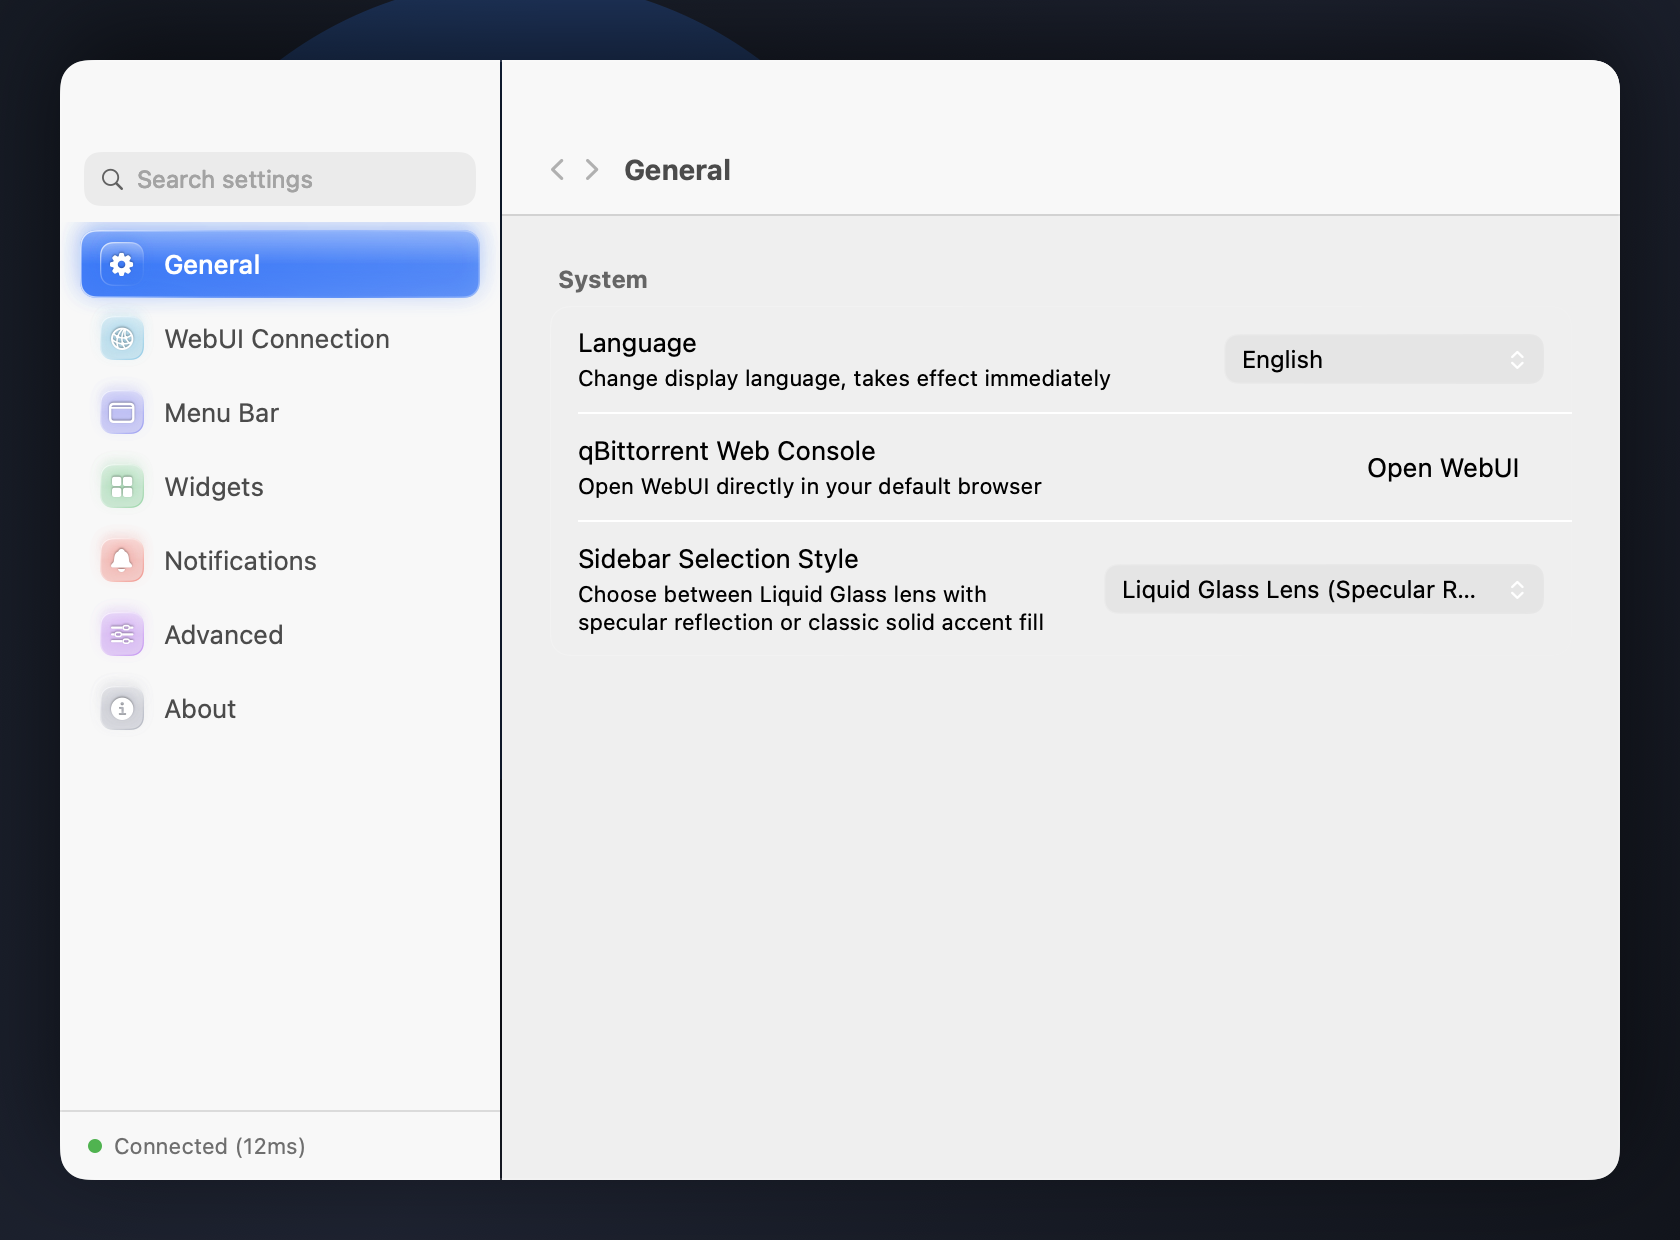
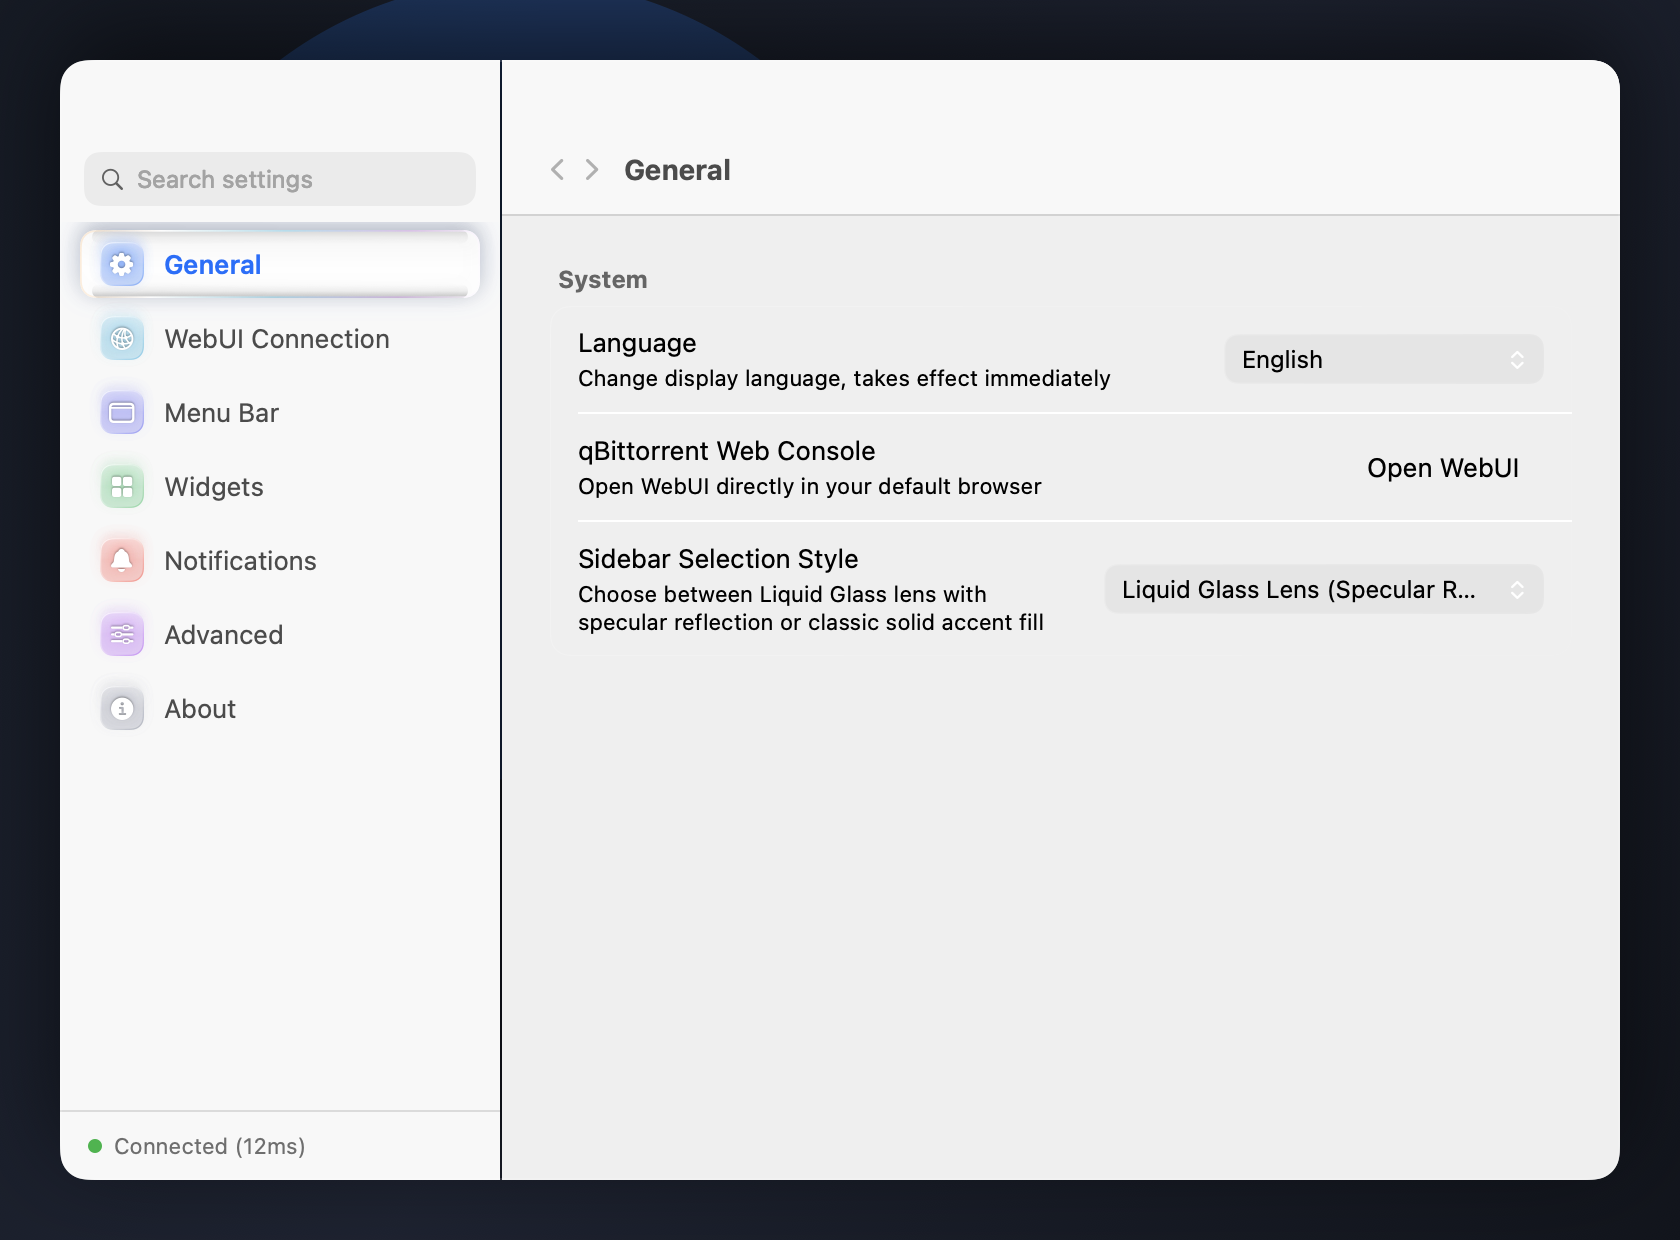
feat(settings): implement authentic clear Liquid Glass optical lens with meniscus refraction, chromatic dispersion and spring motion for sidebar

Changed region(s): [[0.031, 0.1532, 0.3095, 0.2452]]

diff --git a/Sources/QBMenubar/Views/Settings/SettingsWindowView.swift b/Sources/QBMenubar/Views/Settings/SettingsWindowView.swift
@@ -60,6 +60,7 @@ public struct SettingsWindowView: View {
     @State private var hoveredCategory: SettingsCategory? = nil
     @State private var searchText: String = ""
     @State private var testState: TestStatus = .idle
+    @Namespace private var sidebarLensNamespace
 
     private var lang: AppLanguage { viewModel.config.language }
     private var isEn: Bool { !lang.isChinese }
@@ -103,6 +104,7 @@ public struct SettingsWindowView: View {
                 ScrollView {
                     VStack(spacing: 3) {
                         ForEach(SettingsCategory.allCases) { category in
+                            let isSelected = selectedCategory == category
                             Button {
                                 withAnimation(AppMotion.selection) {
                                     selectedCategory = category
@@ -111,25 +113,39 @@ public struct SettingsWindowView: View {
                                 HStack(spacing: 10) {
                                     LiquidGlassCategoryBadge(
                                         category: category,
-                                        isSelected: selectedCategory == category
+                                        isSelected: isSelected
                                     )
 
                                     Text(category.localizedTitle(lang: lang))
-                                        .font(.system(size: 13, weight: selectedCategory == category ? .medium : .regular))
-                                        .foregroundStyle(selectedCategory == category ? Color.white : Color.primary)
+                                        .font(.system(size: 13, weight: isSelected ? .semibold : .regular))
+                                        .foregroundStyle(
+                                            isSelected
+                                                ? (viewModel.config.sidebarSelectionStyle == .liquidGlass ? Color.accentColor : Color.white)
+                                                : Color.primary
+                                        )
 
                                     Spacer()
                                 }
                                 .padding(.horizontal, 10)
                                 .padding(.vertical, 6)
                                 .contentShape(Rectangle())
-                                .background(
-                                    LiquidGlassSidebarSelection(
-                                        isSelected: selectedCategory == category,
-                                        isHovered: hoveredCategory == category,
-                                        style: viewModel.config.sidebarSelectionStyle
-                                    )
-                                )
+                                .background {
+                                    if isSelected {
+                                        LiquidGlassSidebarSelection(
+                                            isSelected: true,
+                                            isHovered: false,
+                                            style: viewModel.config.sidebarSelectionStyle
+                                        )
+                                        .matchedGeometryEffect(id: "sidebarSelectionLens", in: sidebarLensNamespace)
+                                    } else if hoveredCategory == category {
+                                        RoundedRectangle(cornerRadius: 8, style: .continuous)
+                                            .fill(Color.primary.opacity(0.06))
+                                            .overlay(
+                                                RoundedRectangle(cornerRadius: 8, style: .continuous)
+                                                    .strokeBorder(Color.white.opacity(0.08), lineWidth: 0.5)
+                                            )
+                                    }
+                                }
                             }
                             .buttonStyle(.plain)
                             .onHover { isHovered in
@@ -1129,36 +1145,62 @@ public struct LiquidGlassSidebarSelection: View {
             if isSelected {
                 switch style {
                 case .liquidGlass:
+                    // Authentic Clear Optical Liquid Glass Lens with Meniscus Refraction & Chromatic Dispersion
                     ZStack {
-                        // 1. Frosted Material Base (on macOS 26+, native glassEffect; fallback: ultraThinMaterial)
+                        // 1. Crystal Clear Glass Base
                         if #available(macOS 26.0, *) {
                             RoundedRectangle(cornerRadius: 8, style: .continuous)
-                                .fill(Color.accentColor.opacity(0.18))
-                                .glassEffect(.regular.tint(Color.accentColor).interactive(), in: .rect(cornerRadius: 8))
+                                .glassEffect(.clear.interactive(), in: .rect(cornerRadius: 8))
                         } else {
                             RoundedRectangle(cornerRadius: 8, style: .continuous)
                                 .fill(.ultraThinMaterial)
                         }
 
-                        // 2. Liquid Glass Tint Gradient (deep vibrant accent)
+                        // Subtle transparent glass illumination
                         RoundedRectangle(cornerRadius: 8, style: .continuous)
-                            .fill(
-                                LinearGradient(
-                                    colors: [
-                                        Color.accentColor.opacity(0.85),
-                                        Color.accentColor.opacity(0.65)
-                                    ],
-                                    startPoint: .topLeading,
-                                    endPoint: .bottomTrailing
-                                )
-                            )
+                            .fill(Color.white.opacity(0.12))
 
-                        // 3. Upper Specular Gloss Reflection (simulating glass curvature)
+                        // 2. Optical Meniscus Refraction Shadows (Curved top & bottom internal refraction lips)
+                        VStack(spacing: 0) {
+                            Capsule()
+                                .fill(
+                                    LinearGradient(
+                                        colors: [
+                                            Color.black.opacity(0.22),
+                                            Color.black.opacity(0.06),
+                                            Color.clear
+                                        ],
+                                        startPoint: .top,
+                                        endPoint: .bottom
+                                    )
+                                )
+                                .frame(height: 7)
+                                .padding(.horizontal, 6)
+
+                            Spacer()
+
+                            Capsule()
+                                .fill(
+                                    LinearGradient(
+                                        colors: [
+                                            Color.clear,
+                                            Color.black.opacity(0.06),
+                                            Color.black.opacity(0.24)
+                                        ],
+                                        startPoint: .top,
+                                        endPoint: .bottom
+                                    )
+                                )
+                                .frame(height: 7)
+                                .padding(.horizontal, 6)
+                        }
+
+                        // 3. Upper Specular Meniscus Curvature Highlight
                         RoundedRectangle(cornerRadius: 8, style: .continuous)
                             .fill(
                                 LinearGradient(
                                     colors: [
-                                        Color.white.opacity(0.38),
+                                        Color.white.opacity(0.40),
                                         Color.white.opacity(0.0)
                                     ],
                                     startPoint: .top,
@@ -1166,23 +1208,25 @@ public struct LiquidGlassSidebarSelection: View {
                                 )
                             )
 
-                        // 4. Specular Highlight Rim Border
+                        // 4. Prismatic Chromatic Dispersion & Specular Rim Border
                         RoundedRectangle(cornerRadius: 8, style: .continuous)
                             .strokeBorder(
                                 LinearGradient(
-                                    colors: [
-                                        Color.white.opacity(0.75),
-                                        Color.white.opacity(0.22),
-                                        Color.white.opacity(0.06),
-                                        Color.white.opacity(0.32)
+                                    stops: [
+                                        .init(color: Color(red: 1.0, green: 0.85, blue: 0.70).opacity(0.45), location: 0.0),
+                                        .init(color: Color.white.opacity(0.95), location: 0.20),
+                                        .init(color: Color(red: 0.55, green: 0.90, blue: 1.0).opacity(0.50), location: 0.50),
+                                        .init(color: Color(red: 0.90, green: 0.65, blue: 1.0).opacity(0.40), location: 0.80),
+                                        .init(color: Color.white.opacity(0.70), location: 1.0)
                                     ],
                                     startPoint: .topLeading,
                                     endPoint: .bottomTrailing
                                 ),
-                                lineWidth: 0.75
+                                lineWidth: 0.85
                             )
                     }
-                    .shadow(color: Color.accentColor.opacity(0.40), radius: 6, x: 0, y: 2)
+                    .shadow(color: Color.black.opacity(0.16), radius: 5, x: 0, y: 2)
+                    .shadow(color: Color.accentColor.opacity(0.12), radius: 8, x: 0, y: 3)
 
                 case .classic:
                     // Original Solid Accent Color Fill (100% preserved)
